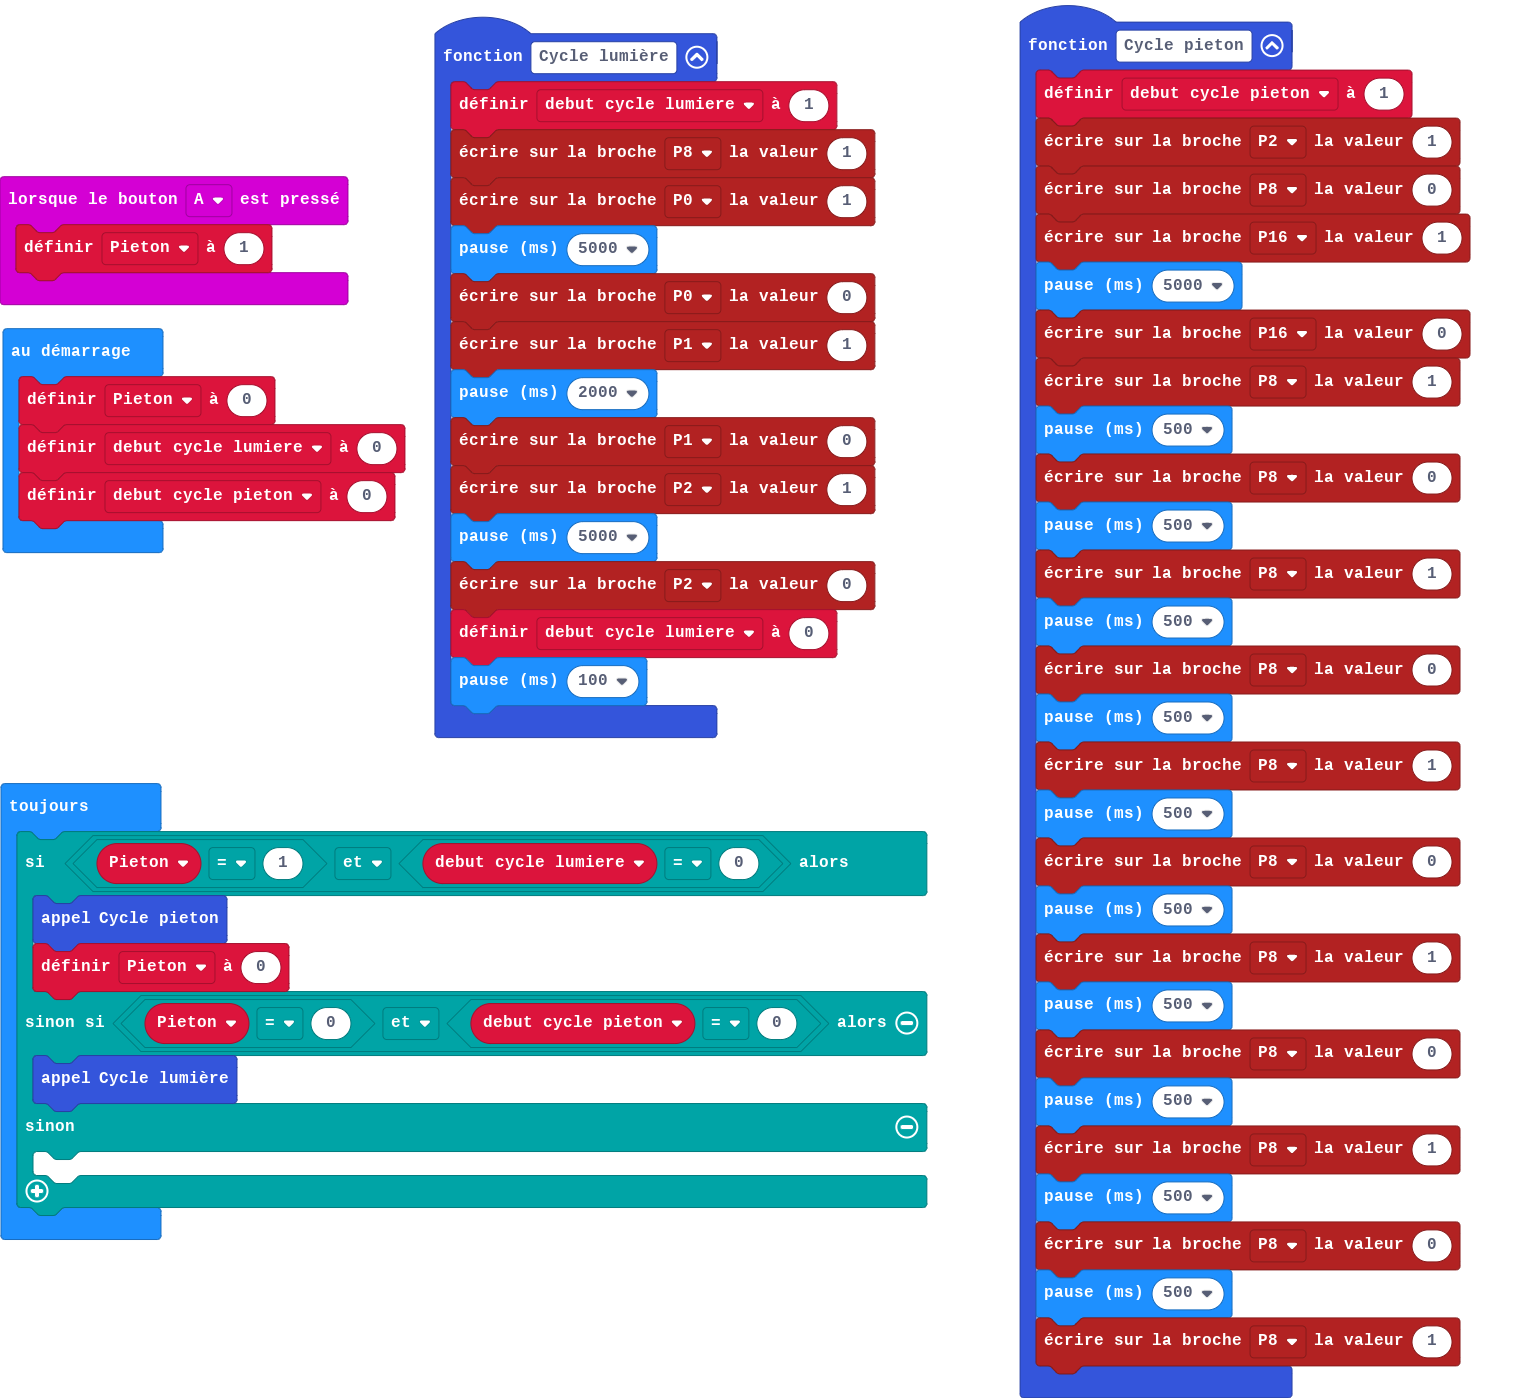
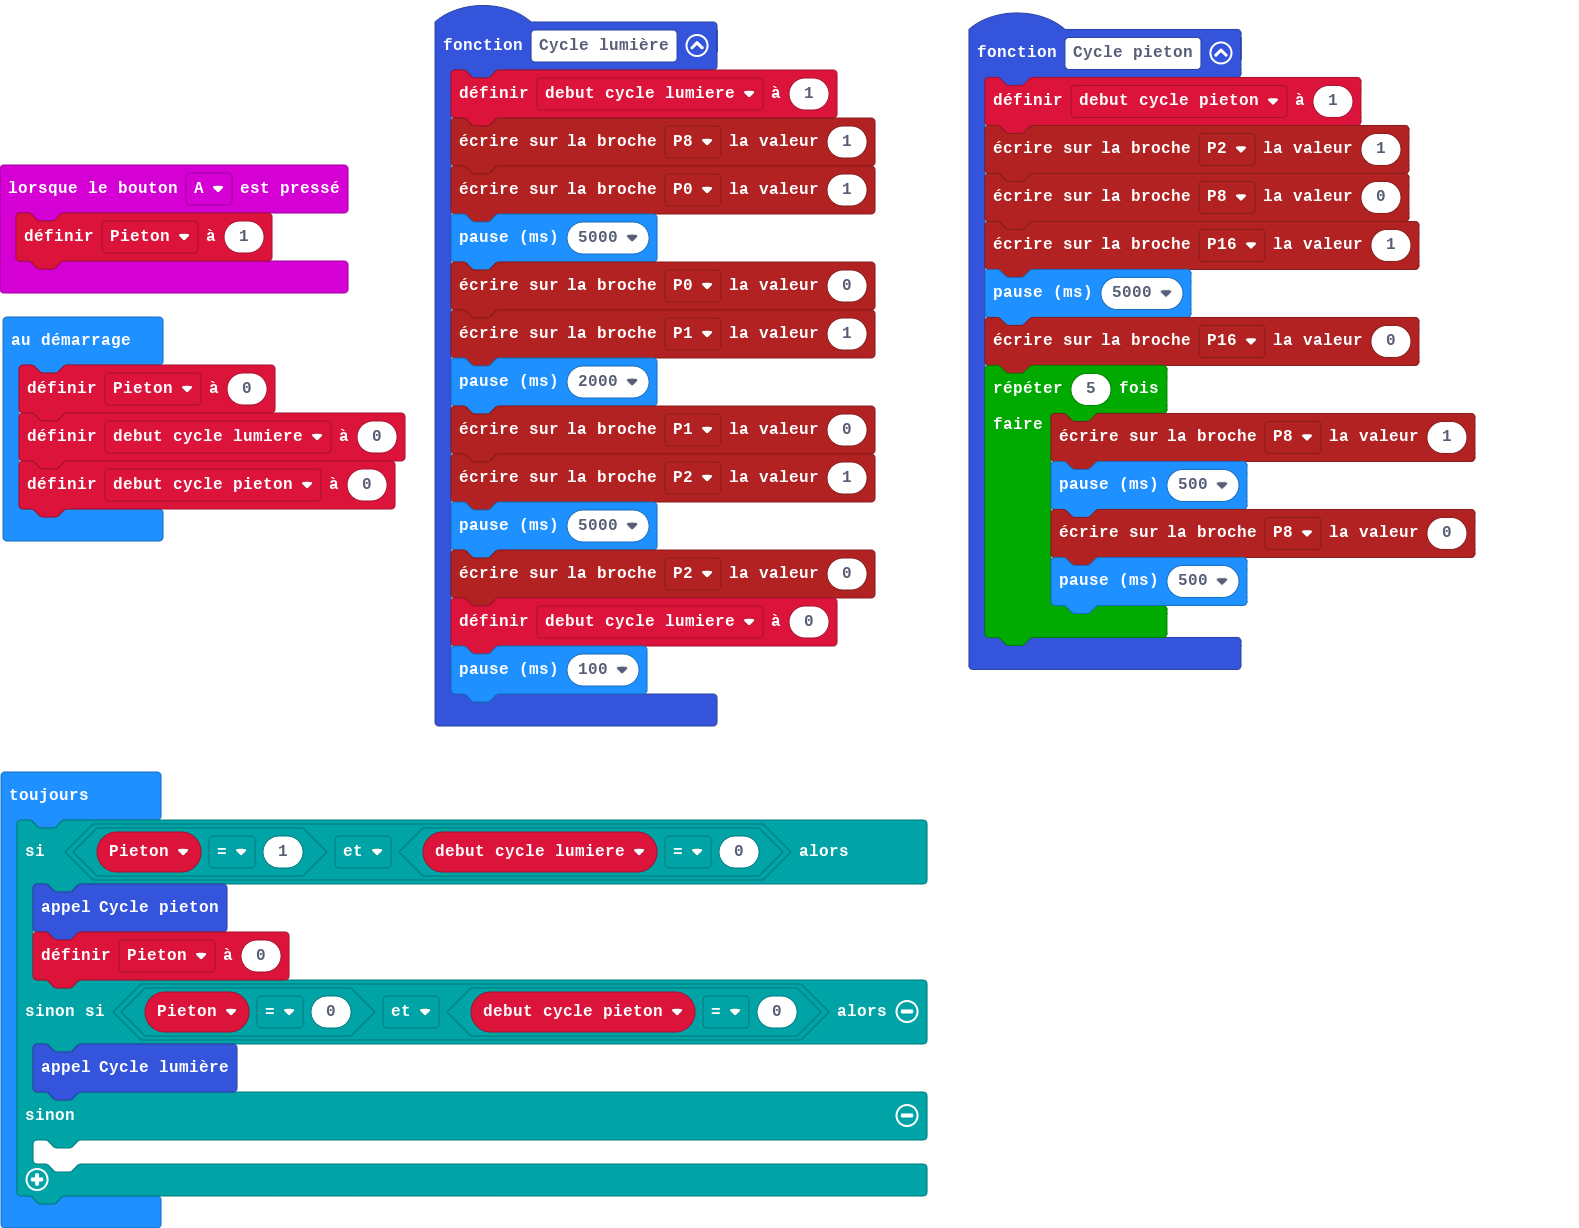
Mise à jour main.blocks, main.ts

diff --git a/main.ts b/main.ts
@@ -5,27 +5,12 @@ function Cycle_pieton () {
     pins.digitalWritePin(DigitalPin.P16, 1)
     basic.pause(5000)
     pins.digitalWritePin(DigitalPin.P16, 0)
-    pins.digitalWritePin(DigitalPin.P8, 1)
-    basic.pause(500)
-    pins.digitalWritePin(DigitalPin.P8, 0)
-    basic.pause(500)
-    pins.digitalWritePin(DigitalPin.P8, 1)
-    basic.pause(500)
-    pins.digitalWritePin(DigitalPin.P8, 0)
-    basic.pause(500)
-    pins.digitalWritePin(DigitalPin.P8, 1)
-    basic.pause(500)
-    pins.digitalWritePin(DigitalPin.P8, 0)
-    basic.pause(500)
-    pins.digitalWritePin(DigitalPin.P8, 1)
-    basic.pause(500)
-    pins.digitalWritePin(DigitalPin.P8, 0)
-    basic.pause(500)
-    pins.digitalWritePin(DigitalPin.P8, 1)
-    basic.pause(500)
-    pins.digitalWritePin(DigitalPin.P8, 0)
-    basic.pause(500)
-    pins.digitalWritePin(DigitalPin.P8, 1)
+    for (let index = 0; index < 5; index++) {
+        pins.digitalWritePin(DigitalPin.P8, 1)
+        basic.pause(500)
+        pins.digitalWritePin(DigitalPin.P8, 0)
+        basic.pause(500)
+    }
 }
 input.onButtonPressed(Button.A, function () {
     Pieton = 1
